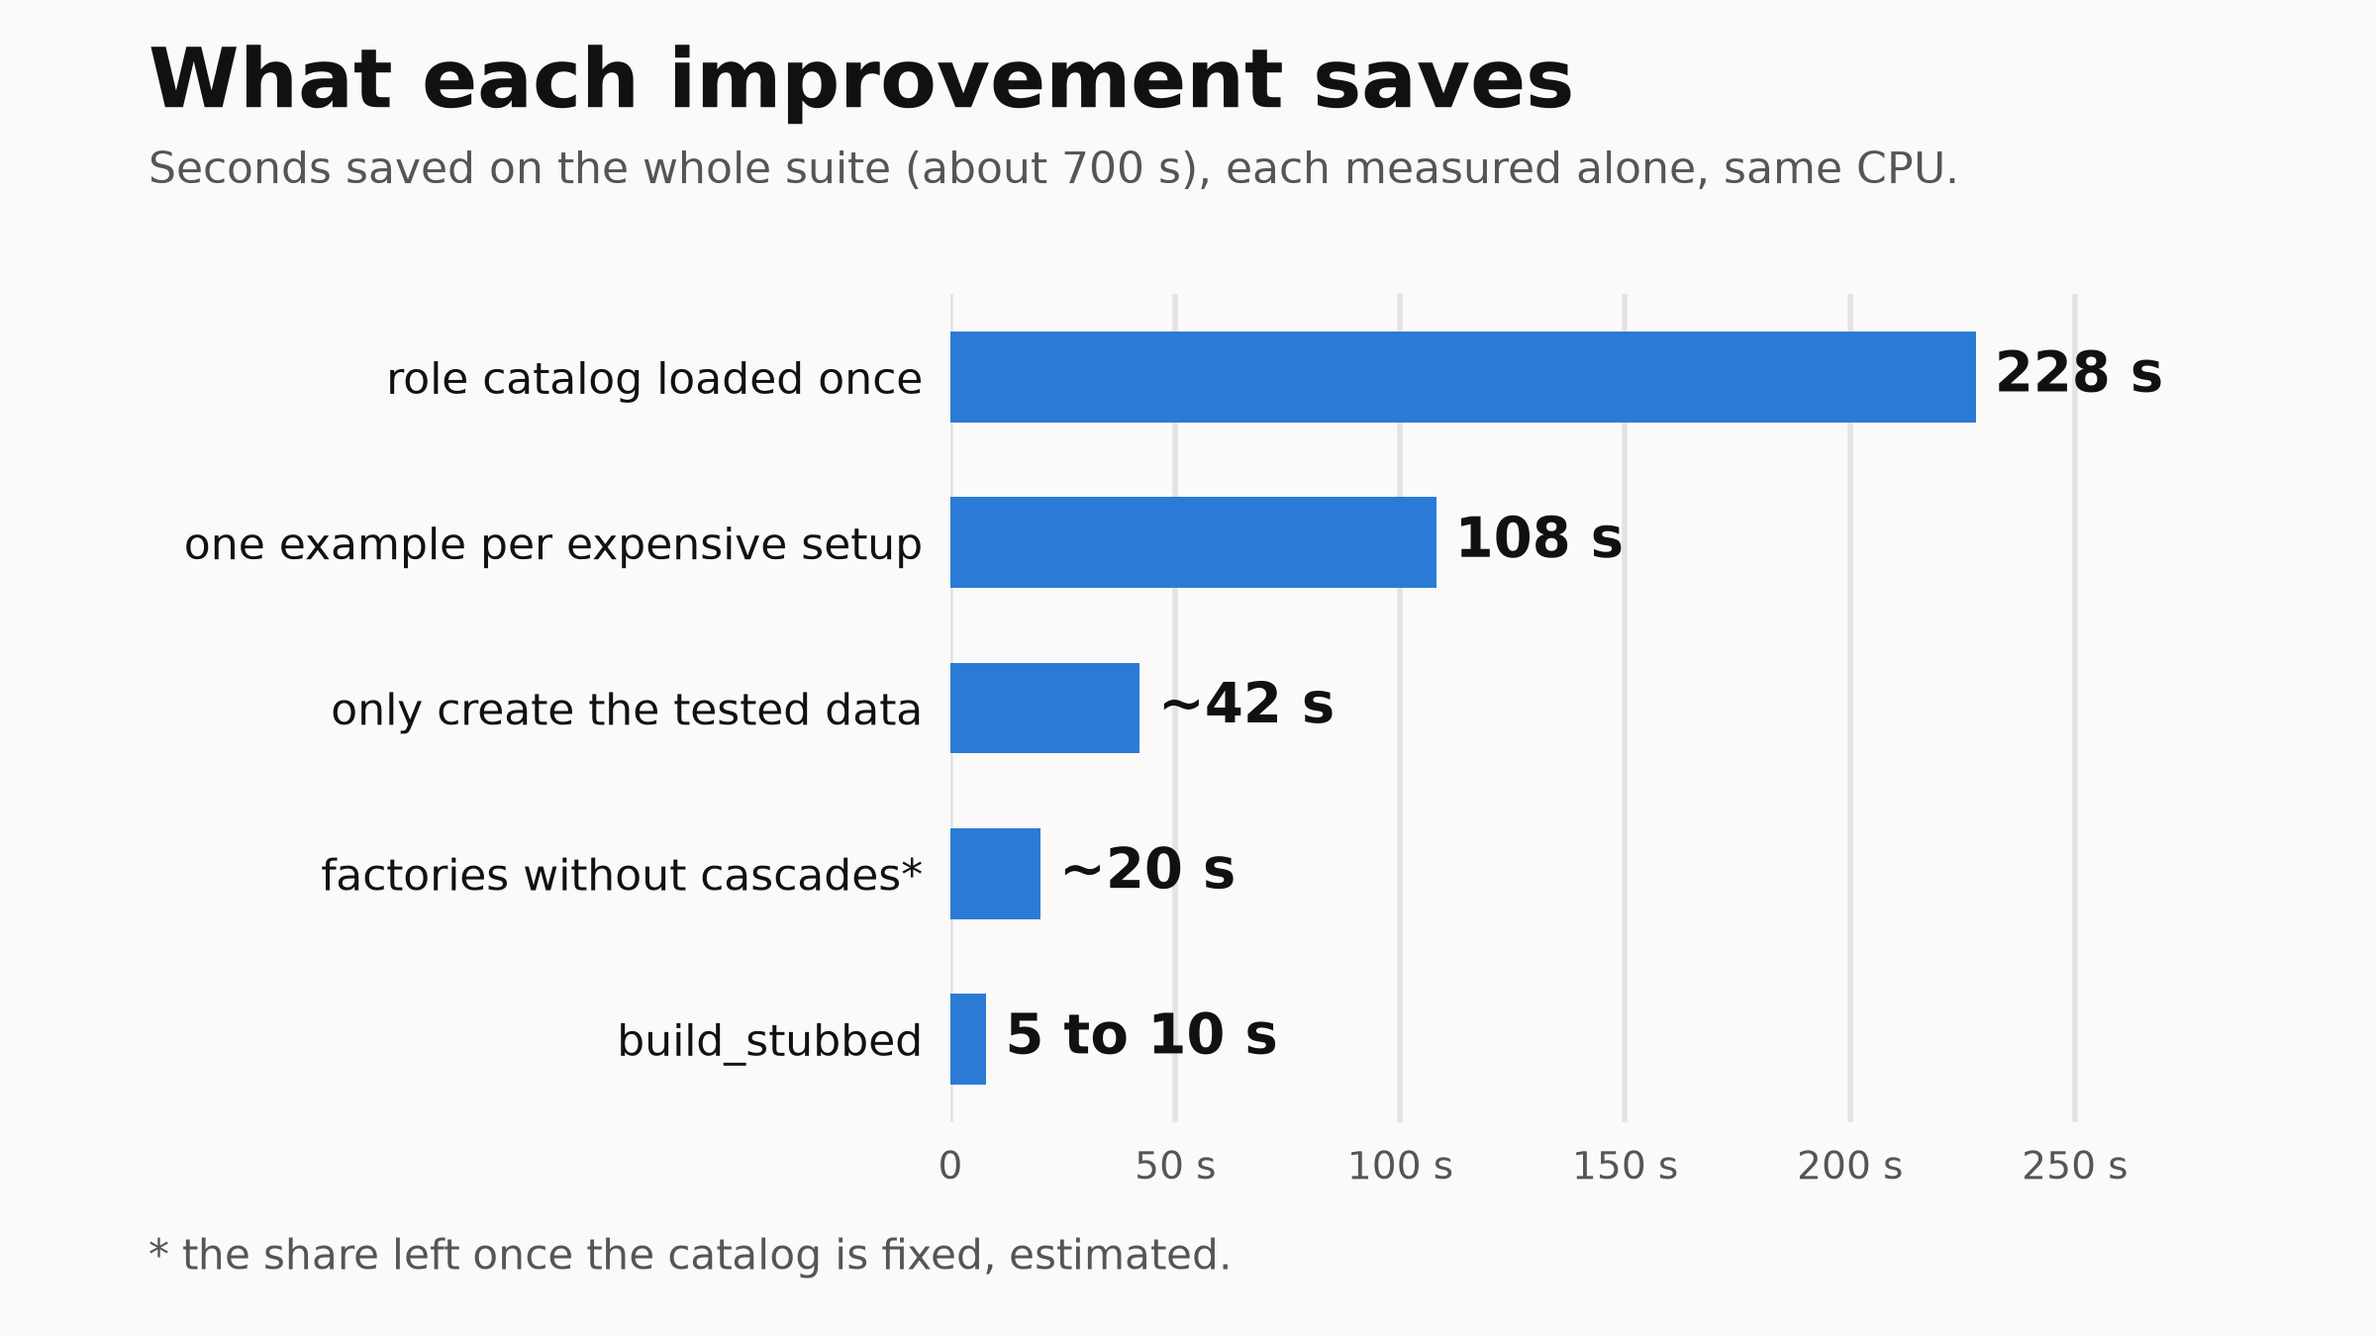
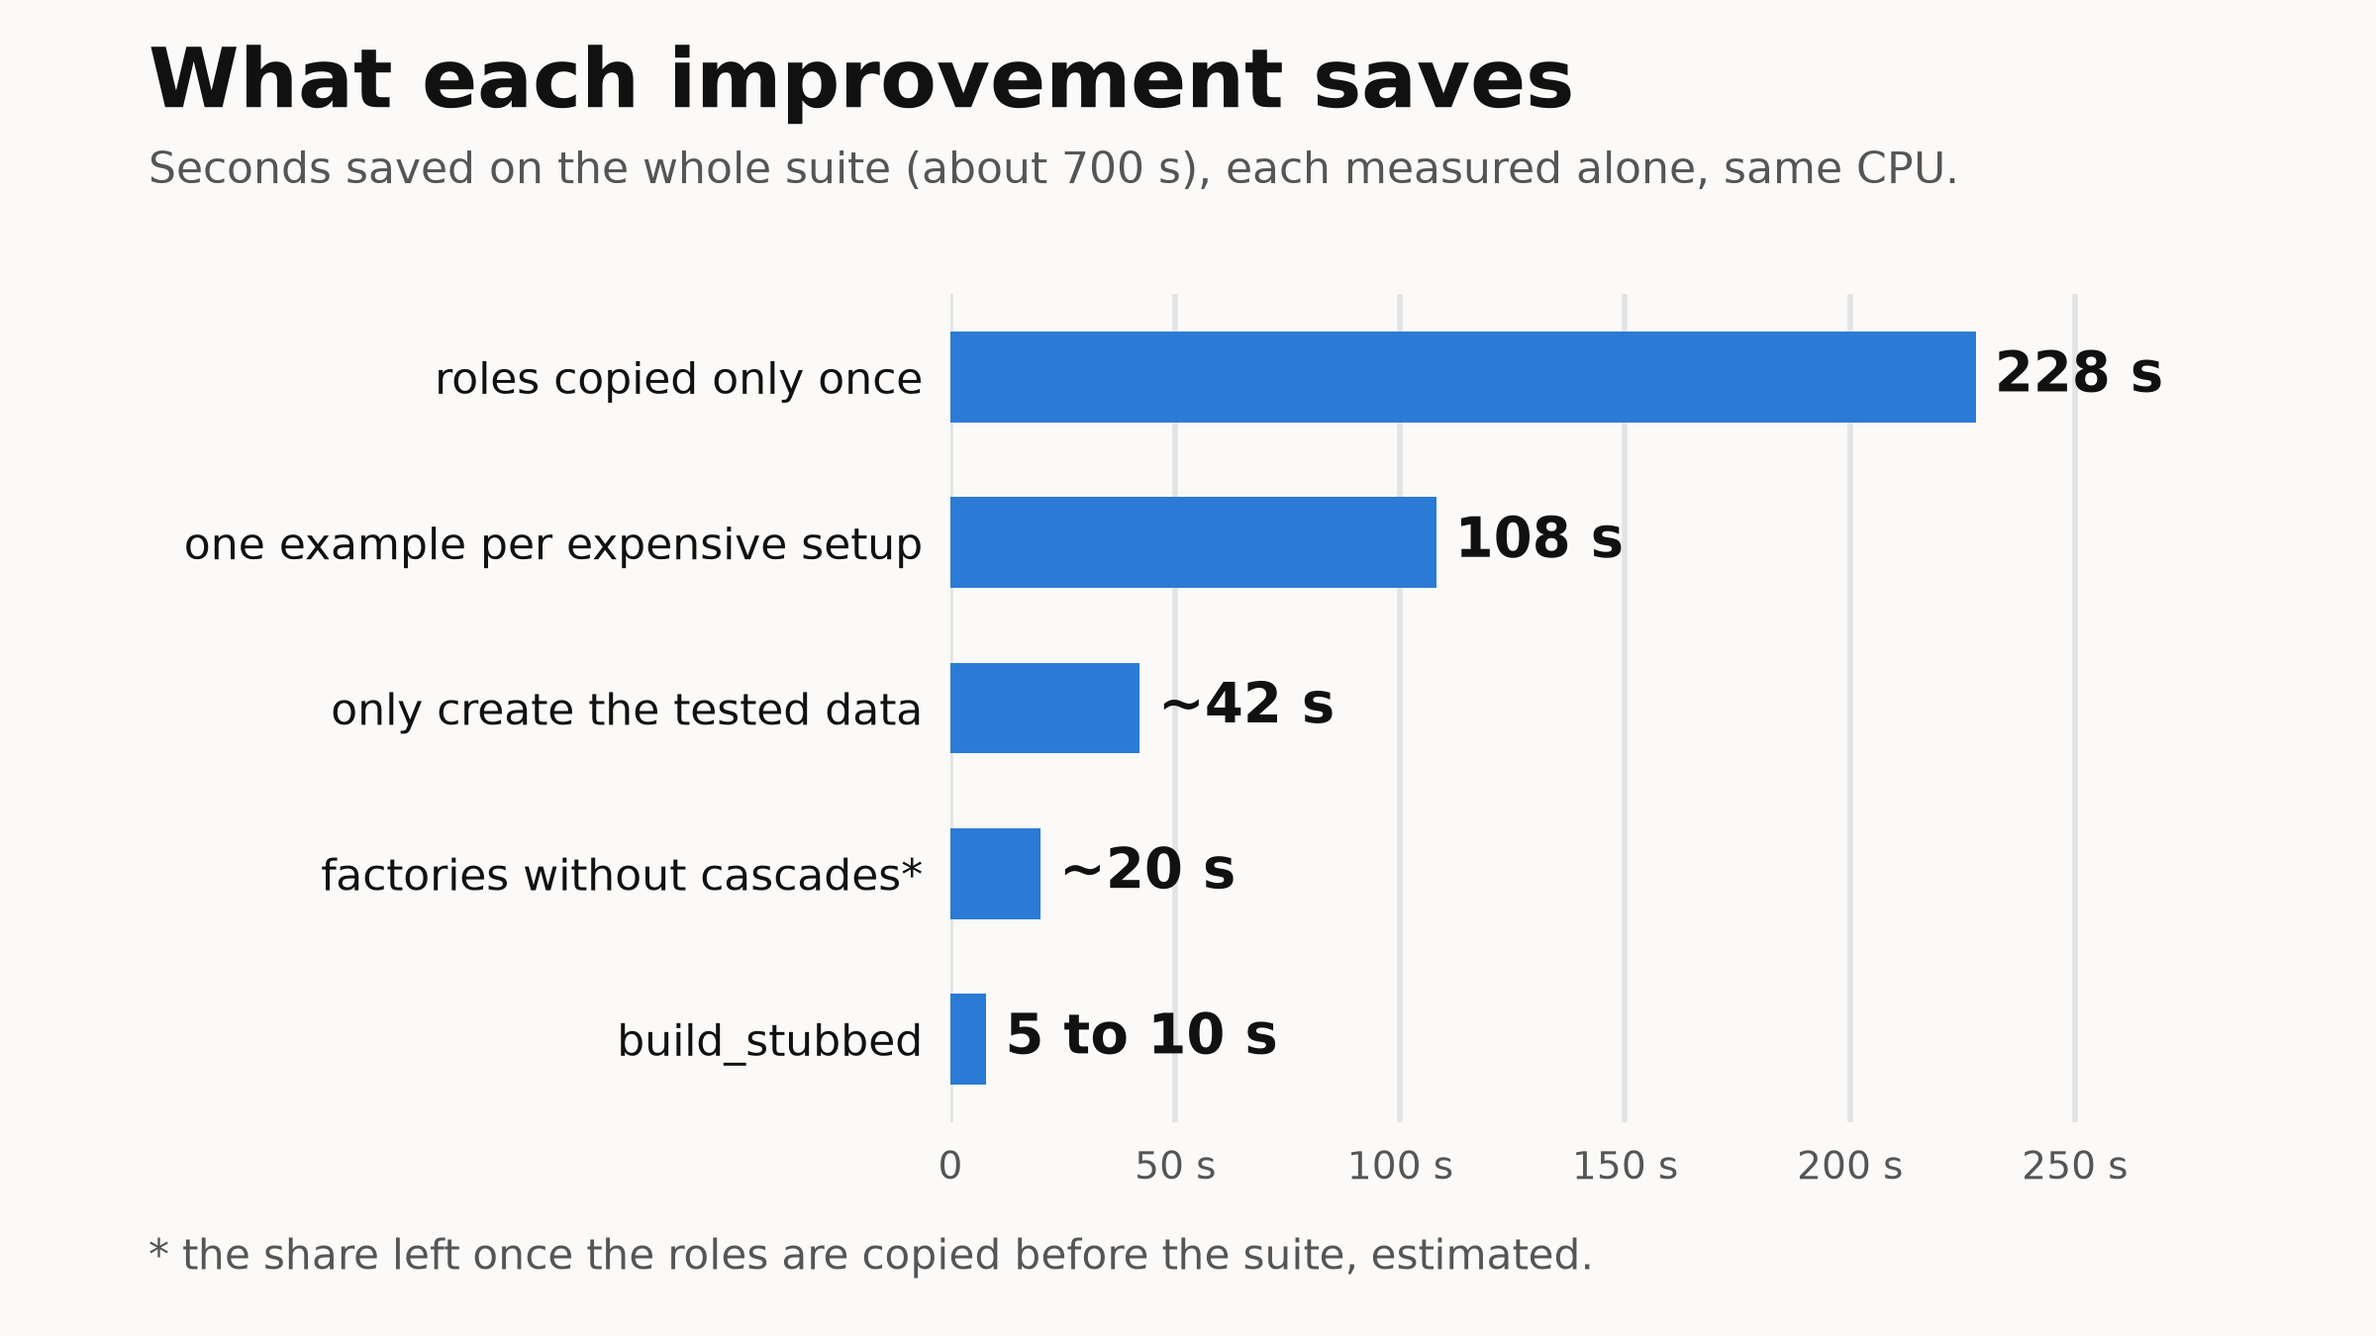
blog: Alléger les specs RSpec, les rôles expliqués et une fin lisible

Changed region(s): [[0.2812, 0.9333, 0.6562, 0.9644], [0.1562, 0.2489, 0.3438, 0.3111]]

diff --git a/content/blog/alleger-les-specs-rspec/fr.md b/content/blog/alleger-les-specs-rspec/fr.md
@@ -4,12 +4,12 @@ slug: alleger-les-specs-rspec
 date: 2026-12-03
 author: "Nicolas Rouanne"
 cover: "gains-fr.png"
-excerpt: "Paralléliser RSpec a réduit l'attente, pas le travail. Quatre conventions de specs et un correctif d'une ligne, mesurés un par un : ce que chacun fait gagner, par test et sur toute la suite."
+excerpt: "Paralléliser RSpec a réduit l'attente, pas le travail. Quatre conventions de specs et une régression corrigée en une ligne, mesurées une par une : ce que chacun fait gagner, par test et sur toute la suite."
 ---
 
 Chez un de nos clients, [paralléliser RSpec](/blog/paralleliser-rspec-sur-github-actions) a fait passer la CI d'une PR de 10 à moins de 5 minutes. Mais la suite fait toujours le même travail, juste réparti sur 6 processus. Pour qu'elle en fasse moins, il faut des specs qui en font moins.
 
-On a appliqué quatre conventions de specs, et trouvé en chemin un correctif d'une ligne qui rapporte plus que chacune d'elles. Chaque changement a été mesuré seul, sur une seule machine : la suite d'origine, puis la suite avec le changement, l'une après l'autre.
+On a appliqué quatre conventions de specs, et trouvé en chemin une régression d'août qui coûtait plus que chacune d'elles. Chaque changement a été mesuré seul, sur une seule machine : la suite d'origine, puis la suite avec le changement, l'une après l'autre.
 
 ![Secondes gagnées sur toute la suite par chaque amélioration, mesurée seule](gains-fr.png "Chaque barre est mesurée seule : les gains ne s'additionnent pas exactement.")
 
@@ -118,7 +118,7 @@ Créer un questionnaire passe de 48 à 9 ms, et la suite en crée plus de 4 000 
 
 ![Temps moyen pour créer un questionnaire et un user, avec et sans cascades](cascades-fr.png "Mesuré par FactoryProf sur toute la suite.")
 
-Sur toute la suite, ça fait 38 134 enregistrements créés au lieu de 44 135, et la suite passe de 699 à 574 s (−18 %). La plus grosse part de ces 48 ms ne venait pourtant pas des comptes, mais de la ligne `Rbac::SyncCatalog.call` : c'est la section suivante.
+Sur toute la suite, ça fait 38 134 enregistrements créés au lieu de 44 135, et la suite passe de 699 à 574 s (−18 %). La plus grosse part de ces 48 ms ne venait pourtant pas des comptes, mais de la ligne `Rbac::SyncCatalog.call`, qui recopiait tous les rôles de l'app : c'est la section suivante.
 
 Le même défaut restait sur les users staff : la factory donnait un compte à chaque user, même aux admins, qui n'en ont pas en production (leur accès vient de leur type). Ce compte coûtait plus que tout ce que `build_stubbed` faisait gagner :
 
@@ -126,15 +126,15 @@ Le même défaut restait sur les users staff : la factory donnait un compte à c
 
 Les factories des users staff n'ont plus de compte par défaut ; un spec qui en a besoin le passe.
 
-## Le catalogue des rôles, chargé une seule fois
+## Une régression d'août : les rôles recopiés à chaque exemple
 
-Dans l'app, les droits passent par des rôles : client en écriture, client en lecture, admin… Ces rôles et leurs permissions sont des lignes en base, que `Rbac::SyncCatalog` crée toutes d'un coup.
+En août, l'app a gagné des droits par compte. Chez un client, chaque membre a désormais un rôle : éditeur (il modifie les questionnaires et invite des membres), analyste (il voit les résultats) ou suiveur (il ne voit que l'avancement de l'enquête). Ces rôles, et ce que chacun autorise, sont écrits dans le code, puis recopiés dans deux tables en base, pour que les droits d'un user se lisent avec une simple requête. C'est tout ce que fait `Rbac::SyncCatalog` : recopier cette liste du code vers la base.
 
-La factory `user` en a besoin pour donner un rôle au user. Elle cherche le rôle en base, et s'il n'y est pas, elle lance toute la synchronisation (le `after(:create)` plus haut). Or chaque exemple RSpec tourne dans une transaction annulée à la fin : tout ce qu'il a créé disparaît, rôles compris. L'exemple suivant repart donc d'une base sans rôles, et son premier user relance la synchronisation complète.
+Dans les tests, la factory `user` donne un rôle au user qu'elle crée. Si le rôle n'est pas en base, elle lance la recopie (le `after(:create)` plus haut). Or chaque exemple RSpec tourne dans une transaction annulée à la fin : tout ce qu'il a créé disparaît, rôles compris. L'exemple suivant repart donc sans rôles, et son premier user relance la recopie. Comme l'owner de chaque questionnaire recevait un rôle, presque tous les exemples la payaient.
 
-C'est pour ça que créer un questionnaire coûtait si cher : son owner recevait un compte avec un rôle, donc chaque exemple qui créait un questionnaire rechargeait tout le catalogue.
+Personne ne l'a vu passer : la fonctionnalité était bien testée et la CI restait verte, elle était juste plus lente. On l'a retrouvé en cherchant pourquoi créer un questionnaire coûtait 48 ms.
 
-La correction tient en une ligne : synchroniser le catalogue une fois, avant toute la suite, en dehors des transactions. Les rôles sont là pour tous les exemples, et la factory les trouve toujours.
+La correction tient en une ligne : recopier les rôles une fois, avant toute la suite, en dehors des transactions. Ils sont là pour tous les exemples, et la factory les trouve toujours.
 
 ```ruby
 # spec/support/rbac_catalog.rb
@@ -143,7 +143,7 @@ RSpec.configure do |config|
 end
 ```
 
-À elle seule, cette ligne fait passer la suite de 714 à 486 s : c'est le plus gros gain de tout l'article. Une fois le catalogue chargé avant la suite, la part propre des cascades tombe à une vingtaine de secondes.
+À elle seule, cette ligne fait passer la suite de 714 à 486 s : c'est le plus gros gain de tout l'article. Une fois les rôles recopiés avant la suite, la part propre des cascades tombe à une vingtaine de secondes.
 
 ## Ne créer que les enregistrements testés
 
@@ -168,11 +168,13 @@ Même idée ailleurs : un rapport créait 20 répondants par profil, alors que 4
 
 Sur les 4 fichiers concernés, ça fait gagner environ 42 s. C'est moins que l'écart entre deux mesures du même code (50 à 100 s) : sur toute la suite, on ne le voit pas, il faut mesurer fichier par fichier.
 
-## Une règle à la fois
+## Et maintenant
 
-On applique maintenant ces conventions une règle à la fois : une PR par règle, relue en quelques minutes. Une règle vérifiable automatiquement devient une règle RuboCop ; les autres vont dans le knowledge des agents, en phrases simples.
+On reprend ces conventions une par une : une petite PR par convention, qu'on relit en quelques minutes.
 
-La parallélisation n'aura pas à changer : sur la suite allégée, le même bench donnait aussi 3 jobs de 2 processus.
+Pour qu'elles tiennent dans le temps, celles qu'un outil peut vérifier deviennent des règles de RuboCop, le linter Ruby : un spec qui ne les respecte pas fait échouer la CI. Les autres sont écrites, en phrases simples, dans les instructions que nos agents de code lisent avant d'écrire un spec.
+
+Et le découpage de la CI de [l'article précédent](/blog/paralleliser-rspec-sur-github-actions) ne bouge pas : même sur la suite allégée, 3 jobs de 2 processus restent le meilleur compromis entre attente et minutes facturées.
 
 > [!NOTE]
 > Les runners `ubuntu-latest` tombent sur des CPU différents, et la même suite peut prendre de 477 à 730 s. Les versions de la suite sont donc comparées sur une seule machine, l'une après l'autre. On suit aussi dans PostHog la somme des temps de chaque fichier de spec, qui monte quand on ajoute des specs, pas quand on ajoute des jobs (voir [Suivre les OKR tech d'une équipe dans PostHog](/blog/suivre-les-okr-tech-d-une-equipe-dans-posthog-depuis-github-actions)).

diff --git a/content/blog/alleger-les-specs-rspec/en.md b/content/blog/alleger-les-specs-rspec/en.md
@@ -4,12 +4,12 @@ slug: slimming-down-rspec-specs
 date: 2026-12-03
 author: "Nicolas Rouanne"
 cover: "gains-en.png"
-excerpt: "Parallelizing RSpec cut the wait, not the work. Four spec conventions and a one-line fix, measured one by one: what each one saves, per test and on the whole suite."
+excerpt: "Parallelizing RSpec cut the wait, not the work. Four spec conventions and a regression fixed in one line, measured one by one: what each one saves, per test and on the whole suite."
 ---
 
 At one of our clients, [parallelizing RSpec](/en/blog/parallelizing-rspec-on-github-actions) took a PR's CI from 10 minutes to less than 5. But the suite still does the same work, just spread over 6 processes. For it to do less, the specs have to do less.
 
-We applied four spec conventions, and found along the way a one-line fix that saves more than any of them. Each change was measured alone, on a single machine: the original suite, then the suite with the change, one after the other.
+We applied four spec conventions, and found along the way an August regression that cost more than any of them. Each change was measured alone, on a single machine: the original suite, then the suite with the change, one after the other.
 
 ![Seconds saved on the whole suite by each improvement, measured alone](gains-en.png "Each bar is measured alone: the gains don't add up exactly.")
 
@@ -118,7 +118,7 @@ Creating a survey goes from 48 to 9 ms, and the suite creates more than 4,000 of
 
 ![Average time to create a survey and a user, with and without cascades](cascades-en.png "Measured by FactoryProf over the whole suite.")
 
-Over the whole suite, that's 38,134 records created instead of 44,135, and the suite goes from 699 to 574 s (−18%). Yet most of those 48 ms didn't come from the accounts, but from the `Rbac::SyncCatalog.call` line: that's the next section.
+Over the whole suite, that's 38,134 records created instead of 44,135, and the suite goes from 699 to 574 s (−18%). Yet most of those 48 ms didn't come from the accounts, but from the `Rbac::SyncCatalog.call` line, which copied all the app's roles: that's the next section.
 
 The same default remained on staff users: the factory gave every user an account, even admins, who have none in production (their access comes from their type). That account cost more than everything `build_stubbed` saved:
 
@@ -126,15 +126,15 @@ The same default remained on staff users: the factory gave every user an account
 
 Staff user factories no longer have an account by default; a spec that needs one passes it.
 
-## The role catalog, loaded once
+## An August regression: roles copied again for every example
 
-In the app, permissions go through roles: client with edit rights, client with read rights, admin… These roles and their permissions are rows in the database, which `Rbac::SyncCatalog` creates all at once.
+In August, the app got per-account permissions. At a client, each member now has a role: editor (edits surveys and invites members), analyst (sees the results) or follower (only sees the survey's progress). These roles, and what each one allows, are written in the code, then copied into two database tables, so that a user's permissions can be read with a simple query. That's all `Rbac::SyncCatalog` does: copy this list from the code to the database.
 
-The `user` factory needs them to give the user a role. It looks the role up in the database, and if it isn't there, it runs the whole sync (the `after(:create)` above). But every RSpec example runs in a transaction that is rolled back at the end: everything it created disappears, roles included. So the next example starts from a database with no roles, and its first user runs the full sync again.
+In the tests, the `user` factory gives a role to the user it creates. If the role isn't in the database, it runs the copy (the `after(:create)` above). But every RSpec example runs in a transaction that is rolled back at the end: everything it created disappears, roles included. So the next example starts with no roles, and its first user runs the copy again. Since every survey's owner got a role, almost every example paid for it.
 
-That's why creating a survey was so expensive: its owner got an account with a role, so every example that created a survey reloaded the whole catalog.
+Nobody noticed: the feature was well tested and the CI stayed green, it was just slower. We found it while looking for why creating a survey cost 48 ms.
 
-The fix is one line: sync the catalog once, before the whole suite, outside the transactions. The roles are there for every example, and the factory always finds them.
+The fix is one line: copy the roles once, before the whole suite, outside the transactions. They're there for every example, and the factory always finds them.
 
 ```ruby
 # spec/support/rbac_catalog.rb
@@ -143,7 +143,7 @@ RSpec.configure do |config|
 end
 ```
 
-On its own, this line takes the suite from 714 to 486 s: the biggest gain in this whole article. Once the catalog is loaded before the suite, the cascades' own share drops to about twenty seconds.
+On its own, this line takes the suite from 714 to 486 s: the biggest gain in this whole article. Once the roles are copied before the suite, the cascades' own share drops to about twenty seconds.
 
 ## Only create the records under test
 
@@ -168,11 +168,13 @@ Same idea elsewhere: a report created 20 respondents per profile, when 4 are eno
 
 Across the 4 files involved, this saves about 42 s. That's less than the gap between two measurements of the same code (50 to 100 s): on the whole suite you can't see it, you have to measure file by file.
 
-## One rule at a time
+## What's next
 
-We now apply these conventions one rule at a time: one PR per rule, reviewed in a few minutes. A rule that can be checked automatically becomes a RuboCop rule; the others go into the agents' knowledge, in plain sentences.
+We're taking these conventions one by one: one small PR per convention, reviewed in a few minutes.
 
-The parallelization won't have to change: on the slimmed-down suite, the same bench also picked 3 jobs of 2 processes.
+To make them last, the ones a tool can check become RuboCop rules (RuboCop is the Ruby linter): a spec that breaks them fails the CI. The others are written, in plain sentences, in the instructions our coding agents read before writing a spec.
+
+And the CI split from [the previous article](/en/blog/parallelizing-rspec-on-github-actions) doesn't change: even on the slimmed-down suite, 3 jobs of 2 processes remain the best trade-off between waiting time and billed minutes.
 
 > [!NOTE]
 > `ubuntu-latest` runners land on different CPUs, and the same suite can take from 477 to 730 s. So versions of the suite are compared on a single machine, one after the other. We also track in PostHog the sum of each spec file's duration, which goes up when we add specs, not when we add jobs (see [Tracking a team's tech OKRs in PostHog](/en/blog/tracking-a-team-s-tech-okrs-in-posthog-straight-from-github-actions)).
